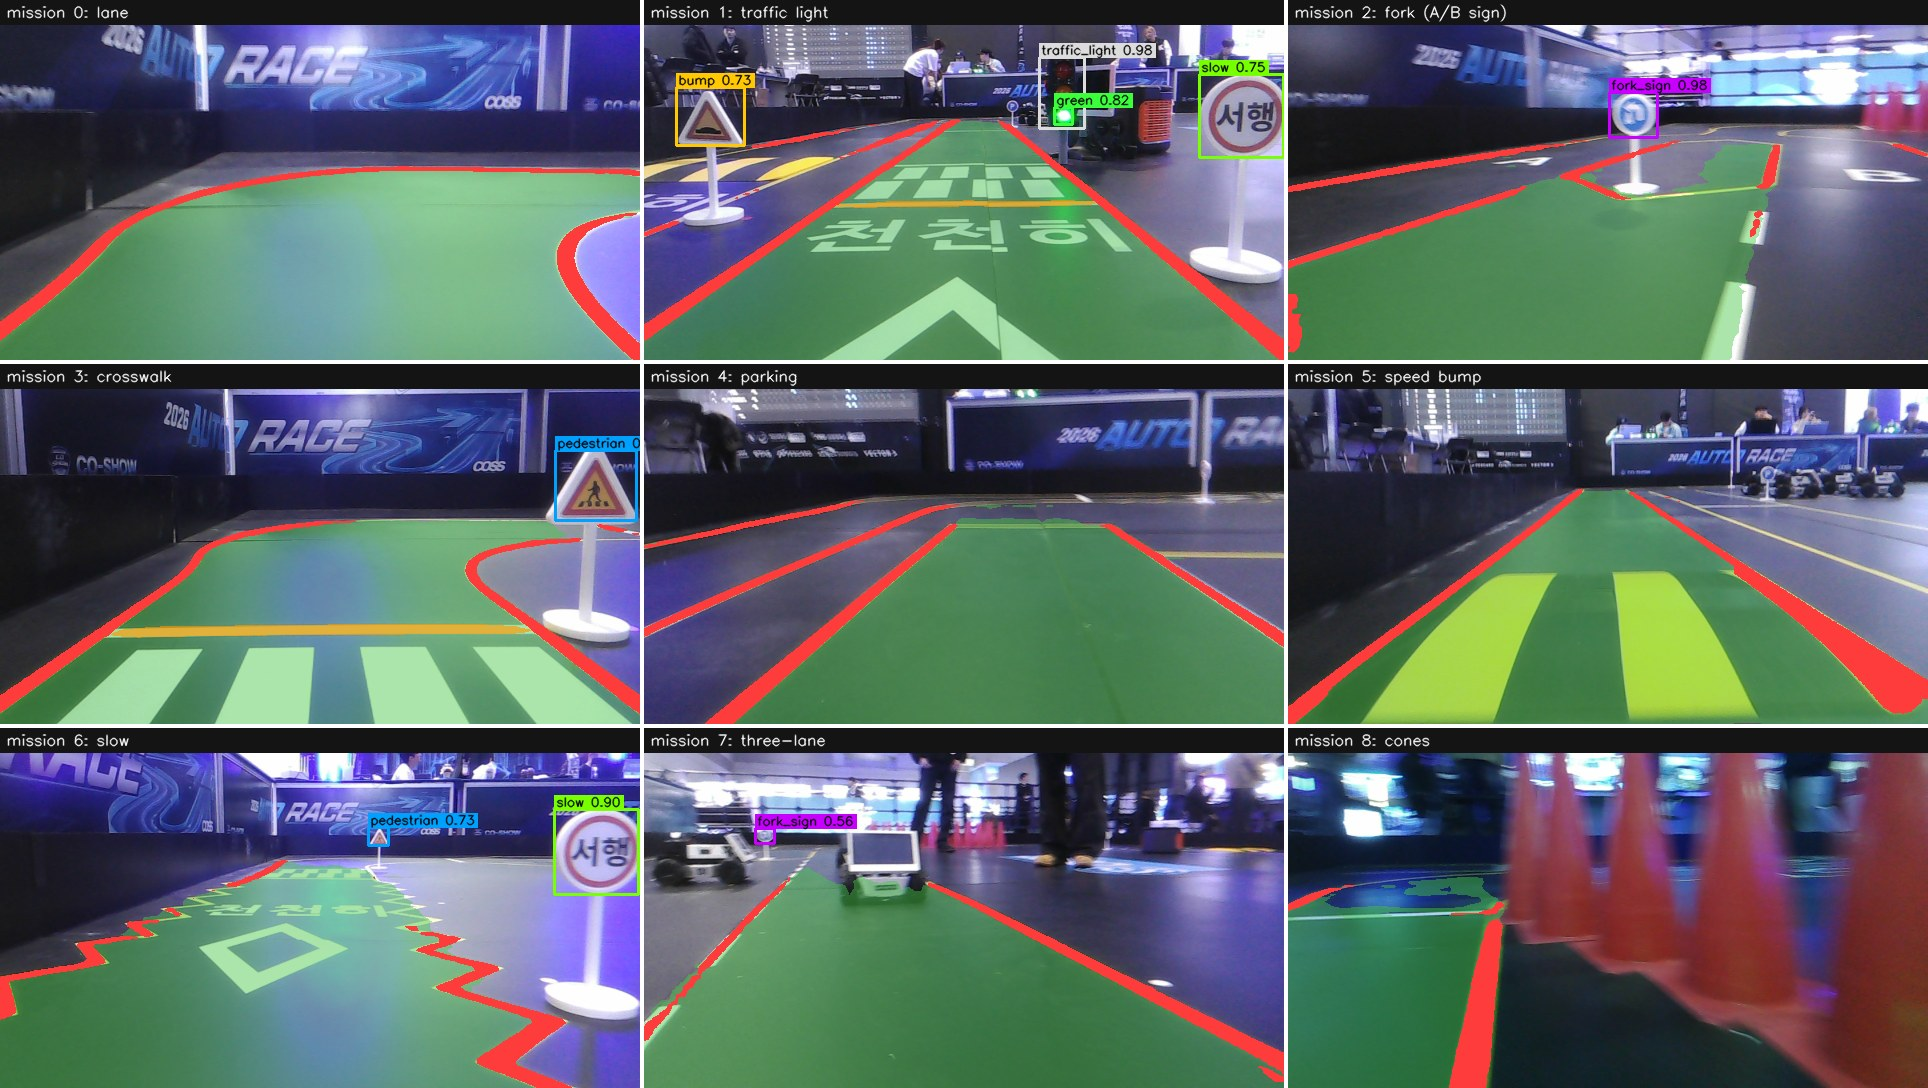
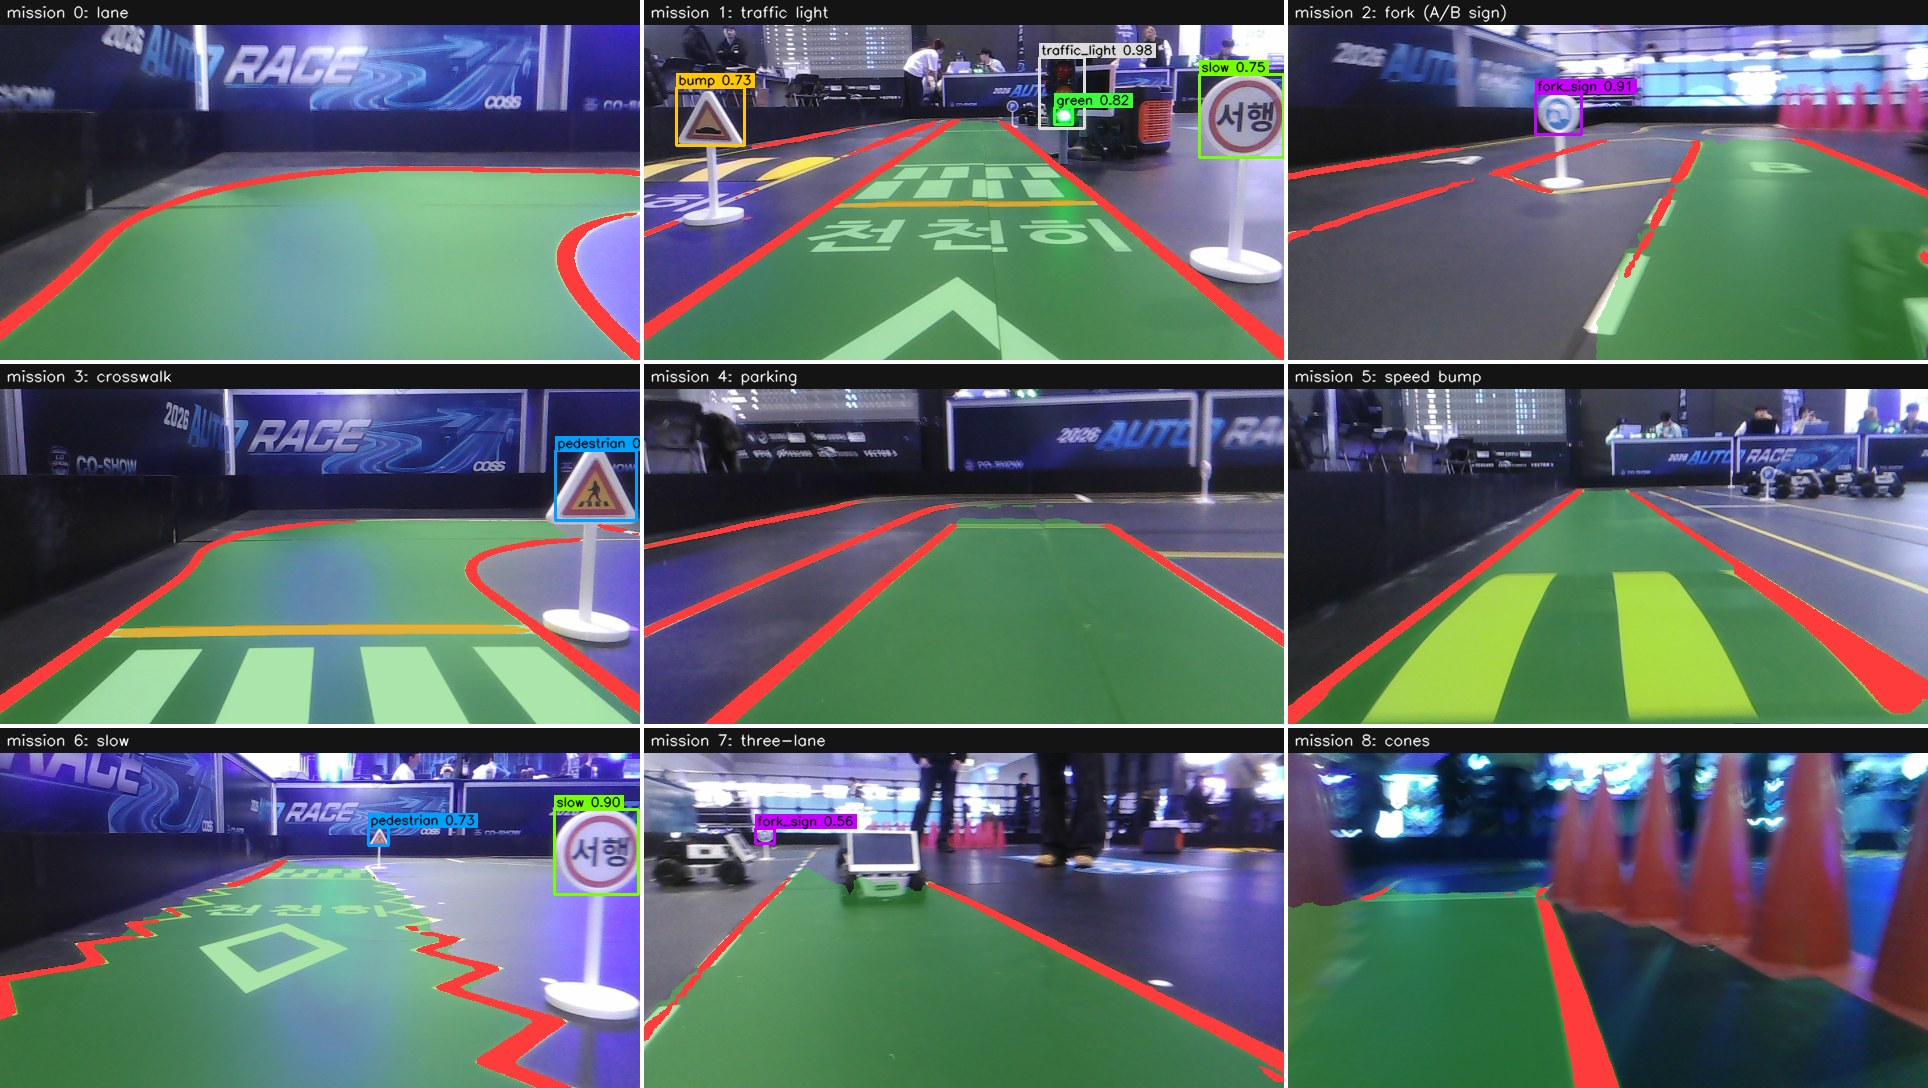
README: 원본 HybridNets 와 비교 추가, 미션 그림 갈림길·라바콘 다시 고름
- orig_vs_v6.gif / .jpg: 같은 대회장 bag 에서 원본 HybridNets(BDD100K) 와 v6 의 DA·차선 비교 (--orig-weights)
- 미션 그림: 갈림길은 섬을 칠하지 않은 프레임, 라바콘은 차로가 고르게 칠해진 프레임
- DA 주행 검사는 v6 결과만 짧게, 이전 모델 비교 그림은 뺌

Changed region(s): [[0.6535, 0.0, 1.0, 0.3438], [0.6535, 0.6875, 1.0, 1.0]]

diff --git a/tools/mt_v4_data/readme_media.py b/tools/mt_v4_data/readme_media.py
@@ -10,6 +10,7 @@
   task_det.jpg      검출만 2x2
   task_da.jpg       주행가능영역(DA)만 2x2
   task_lane.jpg     차선 + 흰 가로선(정지선)만 2x2
+  orig_vs_v6.gif    (--orig-weights 를 주면) 원본 HybridNets(BDD100K 공개 가중치) 와 v6 나란히, 전 코스. DA·차선만 비교
   v5_vs_v6.gif      (--cmp-weights 를 주면) 신호등 진입 구간에서 v5 와 v6 나란히: v5 는 DA·차선이 꺼짐
 프레임 폴더: bag_fork_frames.py --all 로 뽑은 <frames-root>/<bag>/frames/*.jpg + frames.csv (name, t, mission_id)
 사용:
@@ -24,14 +25,16 @@ import torch
 
 ap = argparse.ArgumentParser()
 ap.add_argument("--bundle", required=True); ap.add_argument("--weights", required=True); ap.add_argument("--frames-root", required=True)
-ap.add_argument("--out", required=True); ap.add_argument("--cmp-weights", default=""); ap.add_argument("--tag", default="v6")
+ap.add_argument("--out", required=True); ap.add_argument("--cmp-weights", default=""); ap.add_argument("--orig-weights", default="", help="원본 HybridNets hybridnets.pth (BDD100K)"); ap.add_argument("--tag", default="v6")
 ap.add_argument("--course-bag", default="arall_1118_135742"); ap.add_argument("--park-bag", default="ar4_1118_135516")
 ap.add_argument("--det-thr", type=float, default=0.4)
 ap.add_argument("--da-frames", nargs=4, default=["arall_1118_135742_00817", "arall_1118_135742_01444", "arall_1118_135742_01025", "arall_1118_135742_00410"],
                 help="task_da.jpg 네 칸 (왼쪽 위부터): 직선, 갈림길 A 갈래, 3차선, 지그재그. 11-19 에 DA 가 깔끔한 프레임으로 고름")
+ap.add_argument("--orig-frames", nargs=4, default=["arall_1118_135742_00612", "arall_1118_135742_00504", "arall_1118_135742_00834", "ar4_1118_135516_00150"],
+                help="orig_vs_v6.jpg 네 줄: 횡단보도, 지그재그, 벽 옆 커브, 주차 구역 (11-19 에 원본과 차이가 잘 보이는 장면으로 고름)")
 ap.add_argument("--course-end", type=int, default=1945, help="전 코스 bag 에서 쓸 마지막 프레임 번호 (기본: 신호등 대기 중 사람 손이 들어오기 전)")
 ap.add_argument("--park-end", type=int, default=260, help="주차 bag 에서 쓸 마지막 프레임 번호 (기본: 주차 끝. 그 뒤는 대기 후 사람이 차를 들고 감)")
-ap.add_argument("--picks", nargs="*", default=["2=arall_1118_135742_01292", "4=ar4_1118_135516_00090", "7=arall_1118_135742_01025", "8=arall_1118_135742_01709"],
+ap.add_argument("--picks", nargs="*", default=["2=arall_1118_135742_01284", "4=ar4_1118_135516_00090", "7=arall_1118_135742_01025", "8=arall_1118_135742_01697"],
                 help="미션 칸 프레임 직접 지정 (미션=프레임 이름). 기본값은 11-19 에 눈으로 고른 것: 표지판이 보이는 갈림길, 사람 다리 없는 주차 칸, 흔들리지 않은 3차선·라바콘")
 a = ap.parse_args()
 OUT = os.path.abspath(a.out); os.makedirs(OUT, exist_ok=True)
@@ -184,3 +187,27 @@ if a.cmp_weights:
         r = draw(C[i], head=f"{a.tag}  t={t:4.1f}s  DA {C[i][1][180:].mean():.2f}", foot=False)
         seq.append(np.hstack([l, np.full((360, 6, 3), 255, np.uint8), r]))
     gif(seq, os.path.join(OUT, "v5_vs_v6.gif"), 8, 760)
+
+# 5. 원본 HybridNets vs v6 (전 코스, DA·차선만). 원본은 BDD100K(실제 도로)용: road(도로 전체) / lane 두 클래스
+if a.orig_weights:
+    from backbone import HybridNetsBackbone
+    orig = HybridNetsBackbone(compound_coef=3, num_classes=1, ratios=[(0.62, 1.58), (1.0, 1.0), (1.58, 0.62)],
+                              scales=[2 ** 0, 2 ** 0.70, 2 ** 1.32], seg_classes=2, backbone_name=None, seg_mode="multiclass")   # projects/bdd100k.yml 값
+    orig.load_state_dict(torch.load(a.orig_weights, map_location="cpu", weights_only=True)); orig = orig.cuda().eval()
+    def orig_pair(items, head):
+        out = []
+        for k in range(0, len(items), 32):
+            ch = items[k:k + 32]
+            x = torch.from_numpy(np.stack([((cv2.cvtColor(cv2.copyMakeBorder(r[0], tm.PAD, tm.PAD, 0, 0, cv2.BORDER_CONSTANT, value=(114,) * 3),
+                                                          cv2.COLOR_BGR2RGB).astype(np.float32) / 255 - MEAN) / STD).transpose(2, 0, 1) for _, r in ch])).cuda()
+            with torch.no_grad():
+                seg = orig(x)[-1].argmax(1)[:, tm.PAD:-tm.PAD].cpu().numpy()   # 0 배경, 1 도로, 2 차선
+            for q, (row, r) in enumerate(ch):
+                l = draw((r[0], seg[q] == 1, seg[q] == 2, None, []), sl=False, det=False, head="HybridNets original (BDD100K)", foot=False)
+                rr = draw(r, sl=False, det=False, head=head(row), foot=False)
+                out.append(np.hstack([l, np.full((360, 6, 3), 255, np.uint8), rr]))
+        return out
+    seq = orig_pair([(rc[i], C[i]) for i in range(0, len(rc), 16)], lambda row: f"LimoPro {a.tag}  t={float(row['t']) - t0c:4.1f}s  mission: {mis(row)}")
+    gif(seq, os.path.join(OUT, "orig_vs_v6.gif"), 8, 760)
+    still = orig_pair([(BYNAME[n][1], BYNAME[n][2]) for n in a.orig_frames], lambda row: f"LimoPro {a.tag} (fine-tuned)  mission: {mis(row)}")
+    save(grid(still, 1), "orig_vs_v6.jpg")

diff --git a/README.md b/README.md
@@ -11,8 +11,7 @@ AutoRace 2026 (CO-SHOW) 참가팀 **FOSCAR** · LIMO PRO
 </div>
 
 ## News
-- `2026-11-18` **[`multitask-v6`](https://github.com/mastic-choi/LimoPro_FOSCAR_Vision/releases/tag/multitask-v6) 릴리즈.** v5의 DA 꺼짐을 고치고, 11-18 대회장 bag 자동 라벨 996장을 더했습니다. 대회장 bag 11개 **DA 주행 검사 통과**가 릴리즈 기준입니다.
-- `2026-11-17` [`multitask-v5`](https://github.com/mastic-choi/LimoPro_FOSCAR_Vision/releases/tag/multitask-v5) **🛑 사용 금지.** 대회장 신호등 진입에서 DA·차선이 통째로 꺼졌습니다([경위](docs/VENUE_1118_STATUS.md)).
+- `2026-11-18` **[`multitask-v6`](https://github.com/mastic-choi/LimoPro_FOSCAR_Vision/releases/tag/multitask-v6) 릴리즈.** v4에서 이어 학습하고, 11-18 대회장 bag 자동 라벨 996장을 더했습니다. 대회장 bag 11개 전체 프레임으로 **DA 주행 검사**를 통과했습니다.
 - `2026-11-17` [`fork-sign-v0.3`](https://github.com/mastic-choi/LimoPro_FOSCAR_Vision/releases/tag/fork-sign-v0.3) 갈림길 A/B 분류기에 대회장 표지판을 학습시키고, 원 바깥을 항상 가리도록 했습니다. 대회장 '없음' 오탐이 35%에서 4%로 줄었습니다.
 - `2026-11-17` [`multitask-v4`](https://github.com/mastic-choi/LimoPro_FOSCAR_Vision/releases/tag/multitask-v4) 원본 HybridNets에서 새로 학습했습니다(A·B를 `fork_sign` 하나로 합침).
 - `2026-11-13` [`multitask-v3real`](https://github.com/mastic-choi/LimoPro_FOSCAR_Vision/releases/tag/multitask-v3real) 실물 신호등 961장을 더해, 실물 노랑·초록 재현율이 22~71%에서 100%가 됐습니다.
@@ -35,6 +34,16 @@ AutoRace 2026 (CO-SHOW) 참가팀 **FOSCAR** · LIMO PRO
 <tr><td><img src="docs/images/readme/drive.gif" width="100%"></td></tr>
 <tr><td align="center"><sub>대회장 rosbag 전 코스(출발 → 라바콘)와 주차, 약 3배속. 초록 = 주행가능영역, 빨강 = 차선, 주황 = 정지선, 박스 = 검출. 위 줄은 bag 시간과 차량의 미션 상태입니다.</sub></td></tr>
 </table>
+
+### Why fine-tune: original HybridNets vs LimoPro
+<table>
+<tr><td><img src="docs/images/readme/orig_vs_v6.gif" width="100%"></td></tr>
+<tr><td align="center"><sub>같은 대회장 bag(학습 안 씀), 전 코스. 왼쪽 = 원본 HybridNets(BDD100K 공개 가중치), 오른쪽 = LimoPro v6. 초록 = 주행가능영역, 빨강 = 차선.</sub></td></tr>
+</table>
+
+<a href="./"><img src="docs/images/readme/orig_vs_v6.jpg" width="100%"></a>
+
+<sub>위부터 횡단보도, 지그재그, 벽 옆 커브, 주차 구역. 원본은 실제 도로용이라 <b>횡단보도 줄무늬·정지선을 차선으로</b> 잡고, 벽 옆 커브나 주차 구역에서는 바닥을 거의 칠하지 못합니다. 원본은 도로 전체를 DA로 칠하도록, LimoPro는 내 차로만 칠하도록 학습했습니다.</sub>
 
 ### Model parameter and inference speed
 | Model | Input | Params | 출력 | LIMO PRO (Orin Nano, TensorRT FP16) |
@@ -98,31 +107,20 @@ AutoRace 2026 (CO-SHOW) 참가팀 **FOSCAR** · LIMO PRO
 
 <sub>미션마다 한 장. 차량이 기록한 미션 상태(`mission_id`)로 구간을 나눴습니다. 3차선 칸의 장애물 차 옆 `fork_sign` 박스처럼 오탐도 그대로 두었습니다.</sub>
 
-### Why the DA gate: v5 vs v6
-<table>
-<tr><td><img src="docs/images/readme/v5_vs_v6.gif" width="100%"></td></tr>
-<tr><td align="center"><sub>같은 bag(학습 안 씀)의 신호등 진입 구간. <b>v5(왼쪽)는 62.3초부터 DA·차선이 통째로 꺼지고</b>, v6(오른쪽)은 끝까지 유지합니다.</sub></td></tr>
-</table>
+### DA gate: whole-bag check before release
+시험셋 점수만으로는 릴리즈하지 않습니다. 후보 모델을 **대회장 bag 전체 프레임**에 돌려 지금 차량 모델과 비교하고([`bag_da_gate.py`](tools/mt_v4_data/bag_da_gate.py)), 모두 통과해야 릴리즈합니다.
 
-v5는 시험셋 점수가 좋았지만 대회장에서 차가 멈췄습니다. 원인은 학습 데이터에 섞인 **빈 DA 정답 23장**이었습니다.
-그래서 이제는 릴리즈 전에 [`bag_da_gate.py`](tools/mt_v4_data/bag_da_gate.py)로 대회장 bag 전체 프레임을 차량 기준 모델과 함께 돌립니다.
-
-| 항목 | 통과 조건 | v5 (11-18 bag 8개) | **v6 (11-18 bag 11개)** |
-|---|---|---|---|
-| DA·차선 통째로 꺼짐 | 0 프레임 | 7개 bag 불합격 (최대 581 프레임) | **모두 0** |
-| 가장 긴 연속 꺼짐 | 0.3 s 미만 | 학습 안 쓴 bag에서 8.1 s, 다른 bag은 신호등부터 끝까지 | **0 s** |
-| 차 앞이 비어 보임 | 기준 + 5 프레임 이하 | - | 통과 |
-| 흔들림 (이웃 프레임 DA IoU 5% 분위) | 기준 − 0.05 이상 | - | 통과 (대부분 v4보다 안정) |
-
-<details><summary>bag별 DA 타임라인 (v4 · v5 · v6)</summary>
-<img src="docs/images/readme/gate_timeline.png" width="100%">
-</details>
+| 항목 | 통과 조건 | **v6 (11-18 bag 11개)** |
+|---|---|---|
+| DA·차선 통째로 꺼짐 | 0 프레임 | **모두 0** |
+| 가장 긴 연속 꺼짐 | 0.3 s 미만 | **0 s** |
+| 차 앞이 비어 보임 (화면 맨 아래 띠 DA < 20%) | 기준 + 5 프레임 이하 | 통과 |
+| 흔들림 (이웃 프레임 DA IoU 5% 분위) | 기준 − 0.05 이상 | 통과 (대부분 기준 모델보다 안정) |
 
 ## Models
 | 릴리즈 | 내용 |
 |---|---|
 | **[`multitask-v6`](https://github.com/mastic-choi/LimoPro_FOSCAR_Vision/releases/tag/multitask-v6)** | **최신·권장.** v4에서 시작, 빈 DA 정답 제거, 11-18 대회장 자동 라벨 996장. DA 주행 검사 통과 |
-| [`multitask-v5`](https://github.com/mastic-choi/LimoPro_FOSCAR_Vision/releases/tag/multitask-v5) | 🛑 사용 금지 (대회장에서 DA 꺼짐) |
 | [`multitask-v4`](https://github.com/mastic-choi/LimoPro_FOSCAR_Vision/releases/tag/multitask-v4) | 원본 HybridNets에서 새로 학습, `fork_sign` 합침. v6 이전 차량 기준 모델 |
 | [`fork-sign-v0.3`](https://github.com/mastic-choi/LimoPro_FOSCAR_Vision/releases/tag/fork-sign-v0.3) | 갈림길 A/B 분류기 (ONNX, OpenCV 4.5.4 dnn 호환). v4·v6의 `fork_sign` 박스 크롭에 씀 |
 | [`multitask-v3real`](https://github.com/mastic-choi/LimoPro_FOSCAR_Vision/releases/tag/multitask-v3real) · [`v3`](https://github.com/mastic-choi/LimoPro_FOSCAR_Vision/releases/tag/multitask-v3) · [`v2`](https://github.com/mastic-choi/LimoPro_FOSCAR_Vision/releases/tag/multitask-v2) · [`v1`](https://github.com/mastic-choi/LimoPro_FOSCAR_Vision/releases/tag/multitask-v1) | 이전 다중 작업 모델 (검출 칸 1·2 = sign_A·sign_B) |
@@ -147,7 +145,7 @@ python -I tools/mt_v4_data/bag_fork_frames.py <out> <bag 폴더>... --msgdir <au
 
 # README 그림 다시 만들기 (이 페이지의 GIF·몽타주)
 python -I tools/mt_v4_data/readme_media.py --bundle <LimoPro_mt_v4> --weights hybridnets_mt_v6_best.pt \
-    --cmp-weights hybridnets_mt_v5_best.pt --frames-root <out> --out docs/images/readme
+    --orig-weights hybridnets.pth --frames-root <out> --out docs/images/readme
 
 # 릴리즈 전 DA 주행 검사 (후보 vs 지금 차량 모델)
 python -I tools/mt_v4_data/bag_da_gate.py --cand <후보 best.pt> --base <v4 best.pt> --bundle <LimoPro_mt_v4> --stride 2 <out>/<bag>...
@@ -159,14 +157,14 @@ python -I tools/mt_v4_data/heldout_video.py --bundle <LimoPro_mt_v4> --weights <
 | 도구 | 하는 일 |
 |---|---|
 | [`tools/mt_v4_data/bag_da_gate.py`](tools/mt_v4_data/bag_da_gate.py) | 릴리즈 전 DA 주행 검사 |
-| [`tools/mt_v4_data/gate_timeline_plot.py`](tools/mt_v4_data/gate_timeline_plot.py) | bag별 DA 타임라인 그림 (위 접은 그림) |
+| [`tools/mt_v4_data/gate_timeline_plot.py`](tools/mt_v4_data/gate_timeline_plot.py) | bag별 DA 비율 타임라인 그림 |
 | [`tools/mt_v4_data/which_model_in_bag.py`](tools/mt_v4_data/which_model_in_bag.py) | bag에 기록된 차량 출력(`/ar/lane/sl_mask`)으로 차에 올라간 모델 버전 찾기 |
 | [`tools/mt_v4_data/auto_label_v4.py`](tools/mt_v4_data/auto_label_v4.py) | 대회장 bag 자동 라벨 (v6 학습 데이터) |
 | [`scripts/eval_mt_stopline_montage.py`](scripts/eval_mt_stopline_montage.py) | 정지선 정답·예측을 겹친 몽타주와 사진별 IoU |
 | [`tools/h100_mt_v4/run_v6.sh`](tools/h100_mt_v4/run_v6.sh) | v6 학습 명령 (H100, epoch당 약 170초, 53 epoch 약 2.6시간) |
 
 ### Documents
-- [`docs/VENUE_1118_STATUS.md`](docs/VENUE_1118_STATUS.md): 11-18 대회장 정리 (v5 사고, DA 주행 검사, 자동 라벨, v6)
+- [`docs/VENUE_1118_STATUS.md`](docs/VENUE_1118_STATUS.md): 11-18 대회장 정리 (DA 주행 검사, 자동 라벨, v6 학습)
 - [`docs/MULTITASK_V4_TRAINING.md`](docs/MULTITASK_V4_TRAINING.md): v4 데이터·학습 설계
 - [`docs/FORK_SIGN_CLASSIFIER.md`](docs/FORK_SIGN_CLASSIFIER.md): 갈림길 A/B 분류기
 - [`docs/HISTORY.md`](docs/HISTORY.md): 전체 실험 기록 (차선 1~4차, 다중 작업 1~3차)
